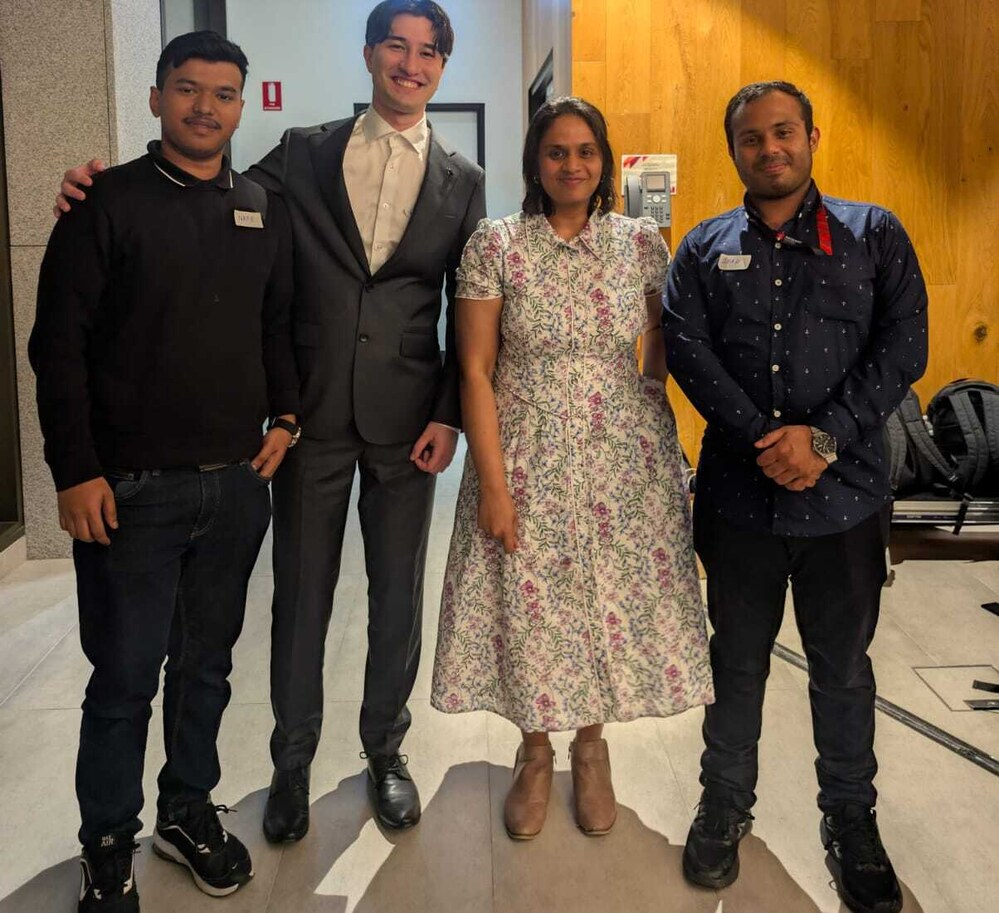
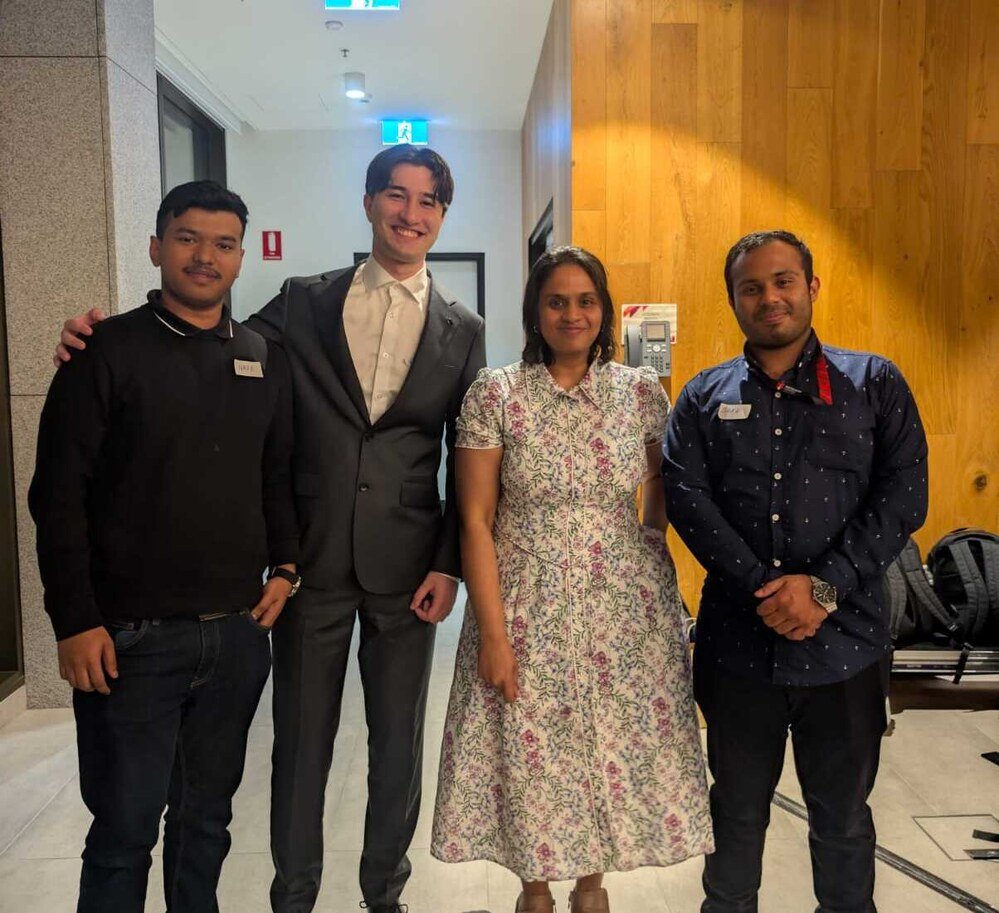
Shift (Tech)^US photo crop up for more headroom
Less floor/leg space, full exit sign visible above heads.

diff --git a/index.html b/index.html
@@ -1469,7 +1469,7 @@
 				<h3>(Tech)^US BIT Industry Showcase</h3>
 				<p>Invite-only industry event at Macquarie University. Selected among 19 teams (4 winners) to present RebootLoop to industry professionals.</p>
 			</div>
-			<div class="project-img-wrap"><img src="/assets/images/techus-team.jpg?v=20261009" alt="The RebootLoop team at the (Tech)^US BIT Industry Showcase 2026"></div>
+			<div class="project-img-wrap"><img src="/assets/images/techus-team.jpg?v=20261009b" alt="The RebootLoop team at the (Tech)^US BIT Industry Showcase 2026"></div>
 		</div>
 
 		<div class="notes-list">
